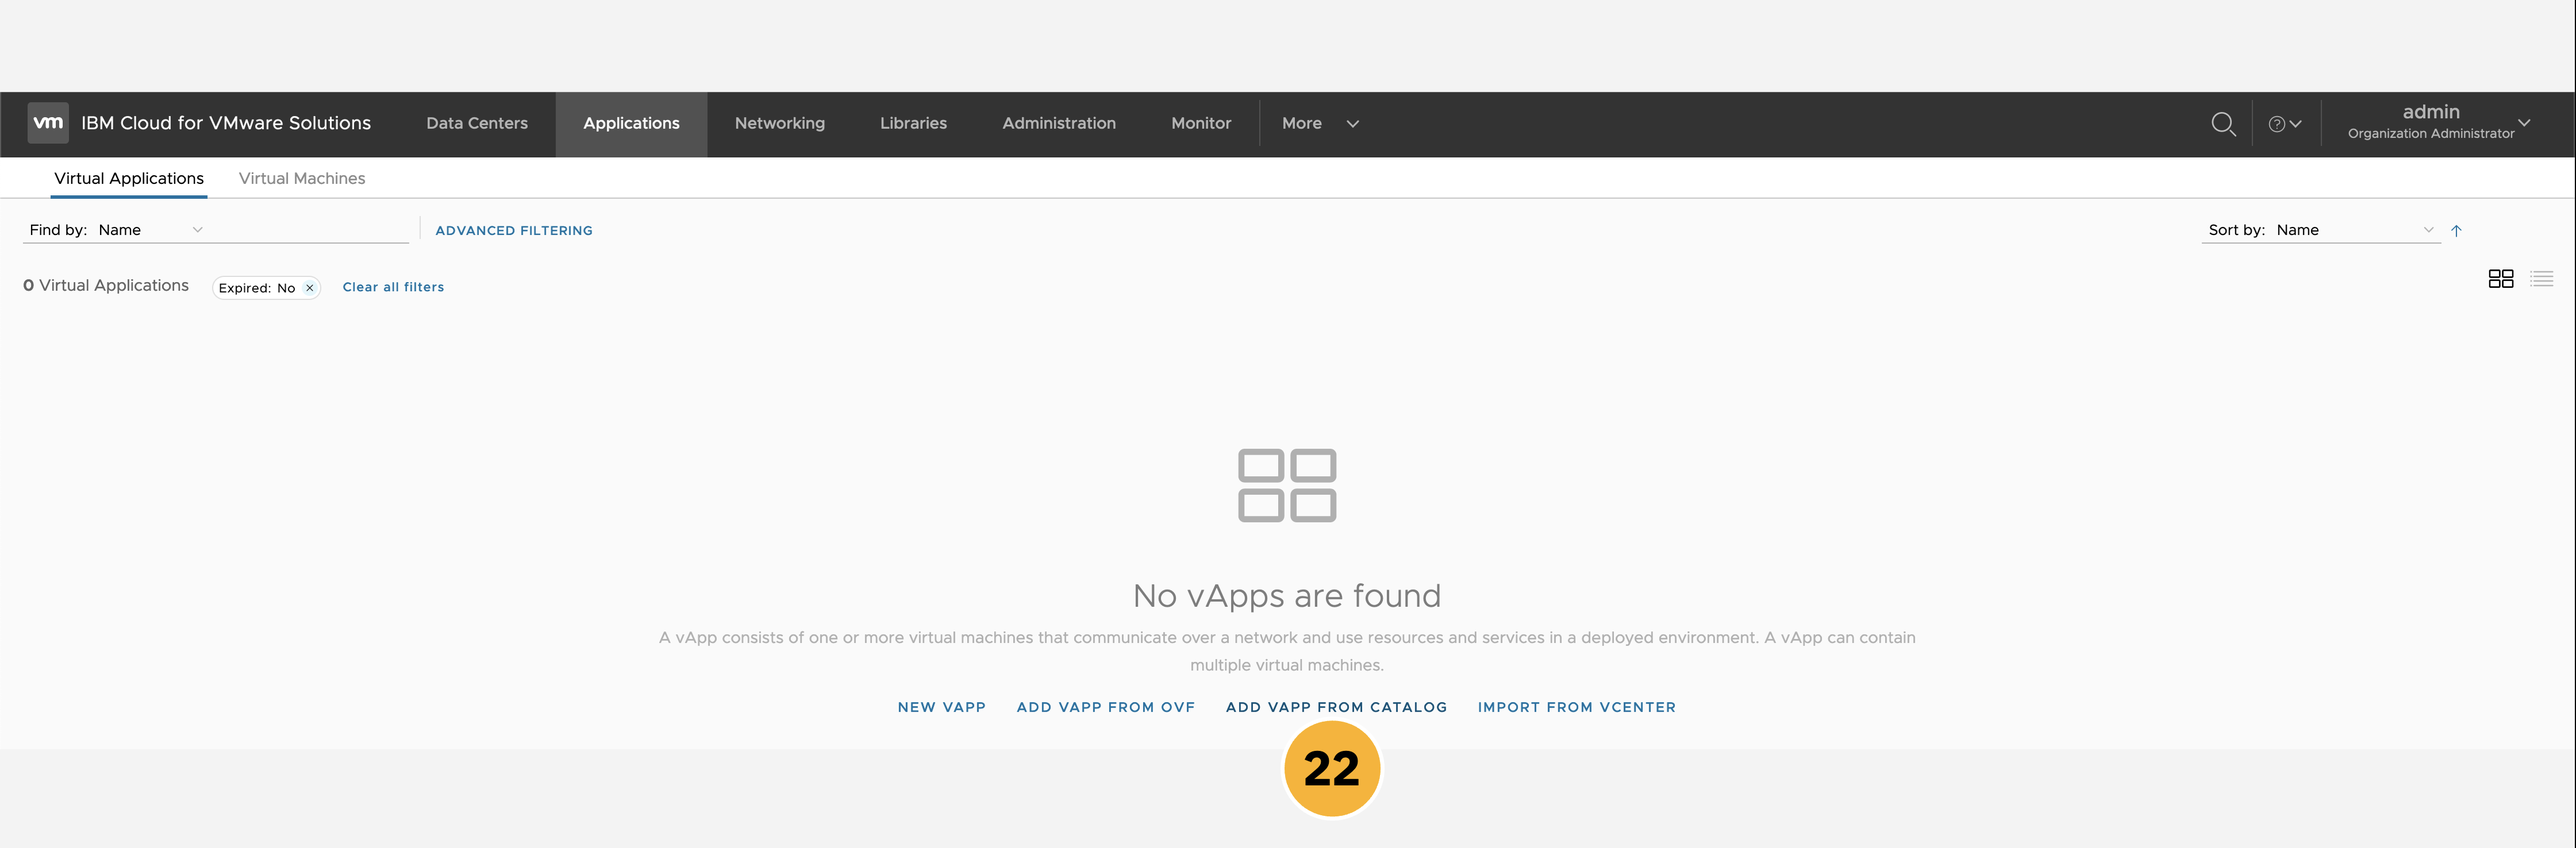
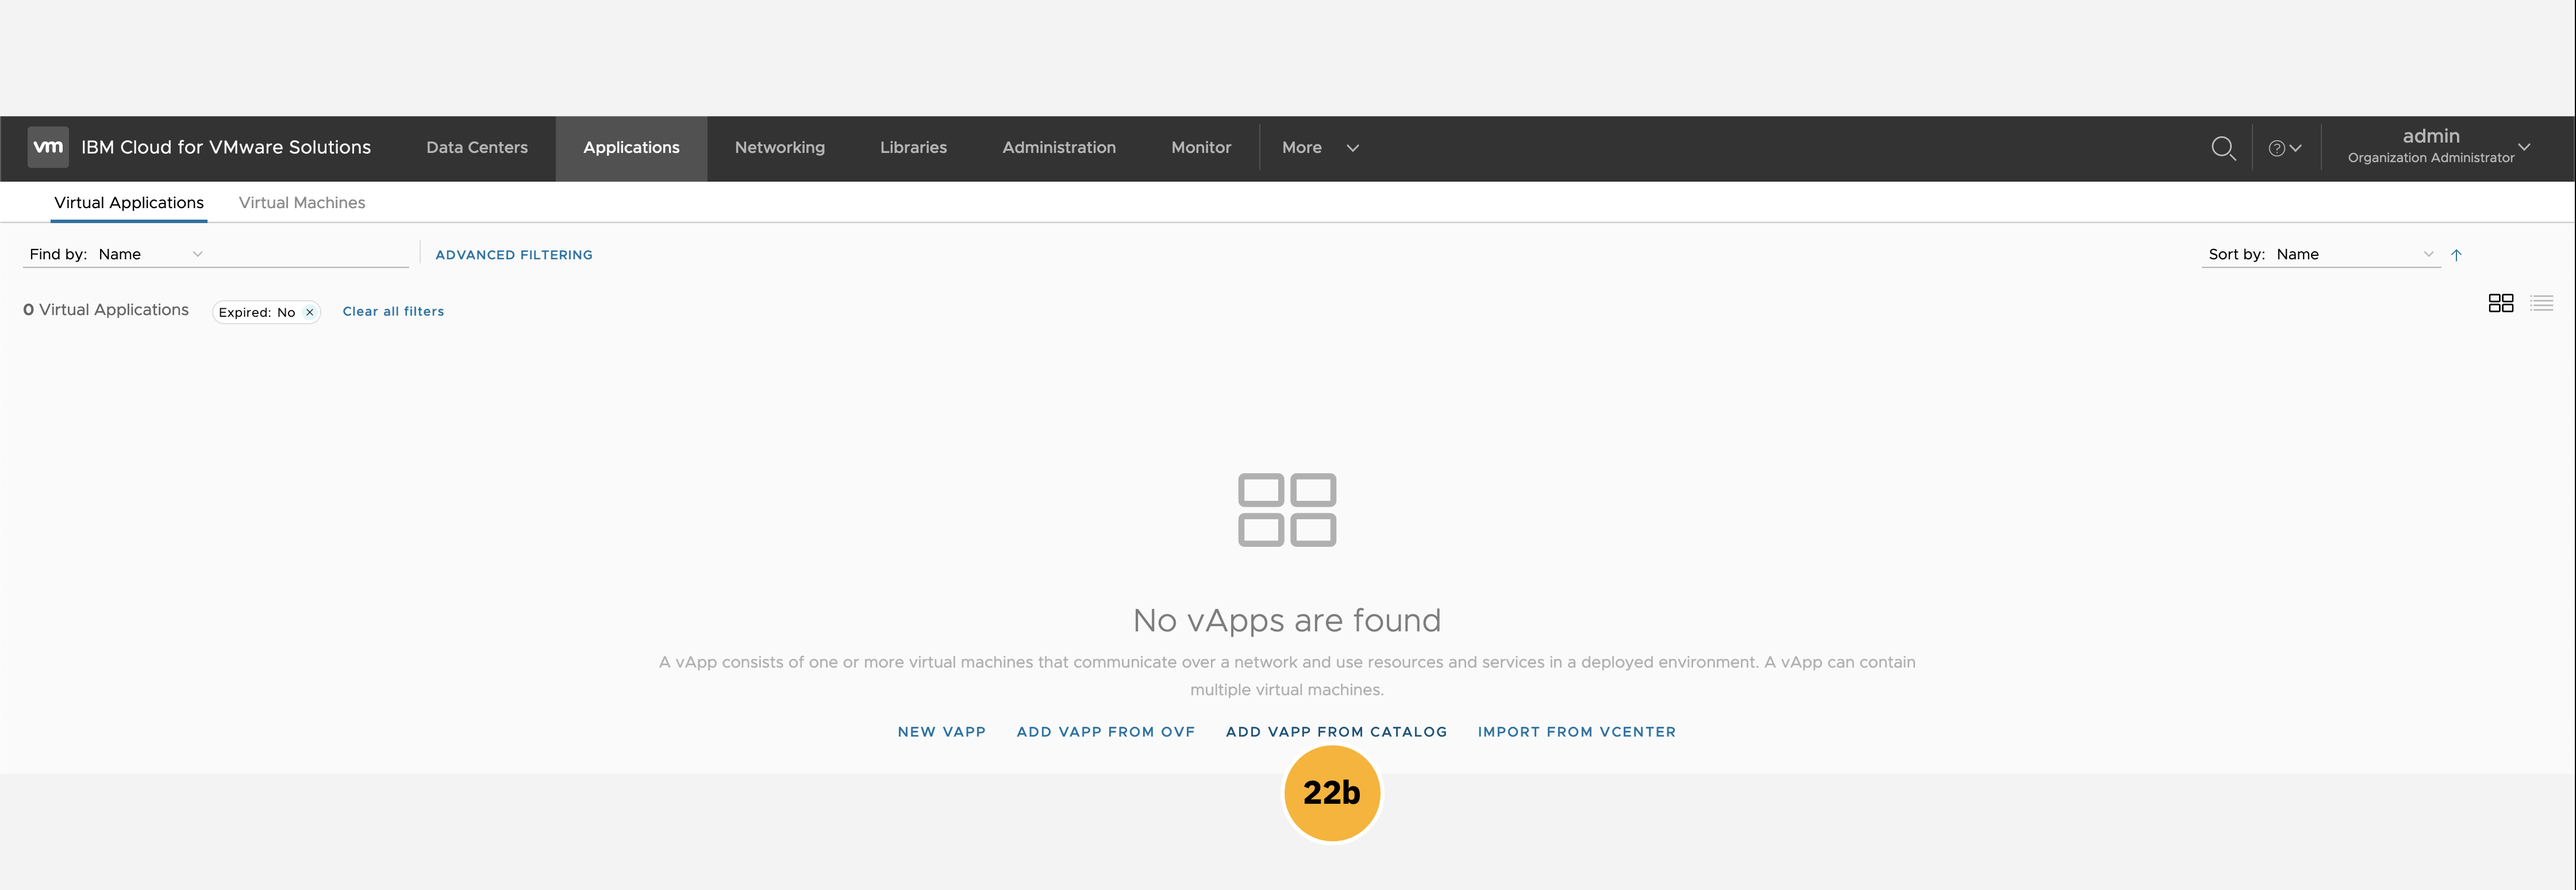
Minor improvements and tweaks to the Shared pages. More screenshots.

diff --git a/docs/Shared/Managing.md b/docs/Shared/Managing.md
@@ -44,7 +44,7 @@ A dialogue window will open, asking you to confirm an administrative password re
 
 ![](_attachments/shared-managing-7.png)
 
-Having been successfully authenticated, your browser will redirect and open to the **vCloud Director console**. From this page, you will be able to access many of the administrative functions for your VMware Shared platform (restricted from full administrative purposes for the purposes of this shared hands-on environment). By default, the console will load to the **Data Centers** tab. Here you can inspect details on the virtual data center supporting your environment, which in the case of the example screenshot below is the ```bienko-vdc``` environment which was set up during the <a href="https://ibm.github.io/SalesEnablement-VMware-L3/Shared/Provisioning/" target="_blank">Provisioning</a> section earlier. A summary of the VDC's CPU, memory, and storage utilization is provided at the bottom of the page.
+After successfully authenticating, your browser will redirect to the **vCloud Director console**. From this page, you will be able to access many of the administrative functions for the VMware Shared environment (with some restrictions in place to ensure the safety and stability of the deployment). By default, the console will load to the **Data Centers** tab. Here you can inspect details on the virtual data center supporting your environment, which in the case of the example screenshot below is the ```bienko-vdc``` environment which was set up during the <a href="https://ibm.github.io/SalesEnablement-VMware-L3/Shared/Provisioning/" target="_blank">Provisioning</a> section earlier. A summary of the VDC's vCPU, memory, and storage utilization is provided at the bottom of the page.
 
 9. Let's explore other elements of the vCloud Director console. From the navigation menu along the top of the console dashboard, click the **Applications** tab.
 
@@ -89,10 +89,14 @@ The console's **Applications** dashboard allows for the centralized management a
 
 ![](_attachments/shared-managing-13.png)
 
+22. *(A):* A summary panel will now display outlining the full configuration of the vApp. To avoid incurring any unnecessary charges, click the **Cancel** button to return to the **Applications** tab.
+
+![](_attachments/shared-managing-37.png)
+
 #
 # Creating vApps from a Template
 
-22. An alternative to defining a vApp from scratch is to select from the pre-built catalog of vApps that are packaged with every VMware Shared deployment on IBM Cloud. To inspect the resources available, click the **Add vApp from Catalog** button at the bottom of the page.
+22. *(B):* An alternative to defining a vApp from scratch is to select from the pre-built catalog of vApps that are packaged with every VMware Shared deployment on IBM Cloud. To inspect the resources available, click the **Add vApp from Catalog** button at the bottom of the page.
 
 ![](_attachments/shared-managing-14.png)
 
@@ -247,6 +251,8 @@ The **Ready to Complete** panel provides a full summary of your organization VDC
 
 Your browser will automatically redirect to the **Networking** tab of the vCloud Director console.
 
+![](_attachments/shared-managing-38.png)
+
 62. From the list of subdirectories along the top of the screen, drill down into the **Edge Gateways** panel as shown.
 
 63. The panel will summarize all of the Edge Gateways currently deployed on the VMware Shared platform, including the one we just created (```edge-dal10-67c6f68e```). Click the **Name** of that Edge Gateway (your name may differ from the example shown) to expand additional details about it.
@@ -282,7 +288,7 @@ For the purposes of this hands-on demonstration, we won't go too deeply into det
 
 71. **Quotas** can be applied to the user, limiting how many VMs (running or paused) that said user can manage within the platform.
 
-72. Save or discard changes to users using the interface at the bottom of the panel.
+72. Discard any changes made to the user and group definitions.
 
 ![](_attachments/shared-managing-35.png)
 

diff --git a/docs/Shared/Provisioning.md b/docs/Shared/Provisioning.md
@@ -81,7 +81,7 @@ A **multi-zone** VMware virtual data center deployment will deploy across two av
 
 The **public network** endpoints that are provisioned by default are the five public IP addresses that are displayed in the VMware Shared virtual data center details page. After the demonstration environment has provisioned, you will be able to go and inspect those for yourself.
 
-A **private network** endpoint allows a customer's IBM Cloud account devices or resources to connect to their virtual data centers by using the IBM Cloud private network. The private network endpoint service is available and ready to use in all virtual data centers provisioned through the IBM Cloud. After the private network has been configured, the service allows IBM Cloud account resources to connect to virtual machines (VMs) in a customer's virtual data center over the IBM Cloud private network.
+A **private network** endpoint allows a customer's IBM Cloud account devices or resources to connect to their virtual data centers by using the IBM Cloud private network. The private network endpoint service is available and ready to use in all virtual data centers provisioned through the IBM Cloud.
 
 12. To give the environment the widest range of options, select the ```Public and Private``` **Networking** option from the configuration panel.
 
